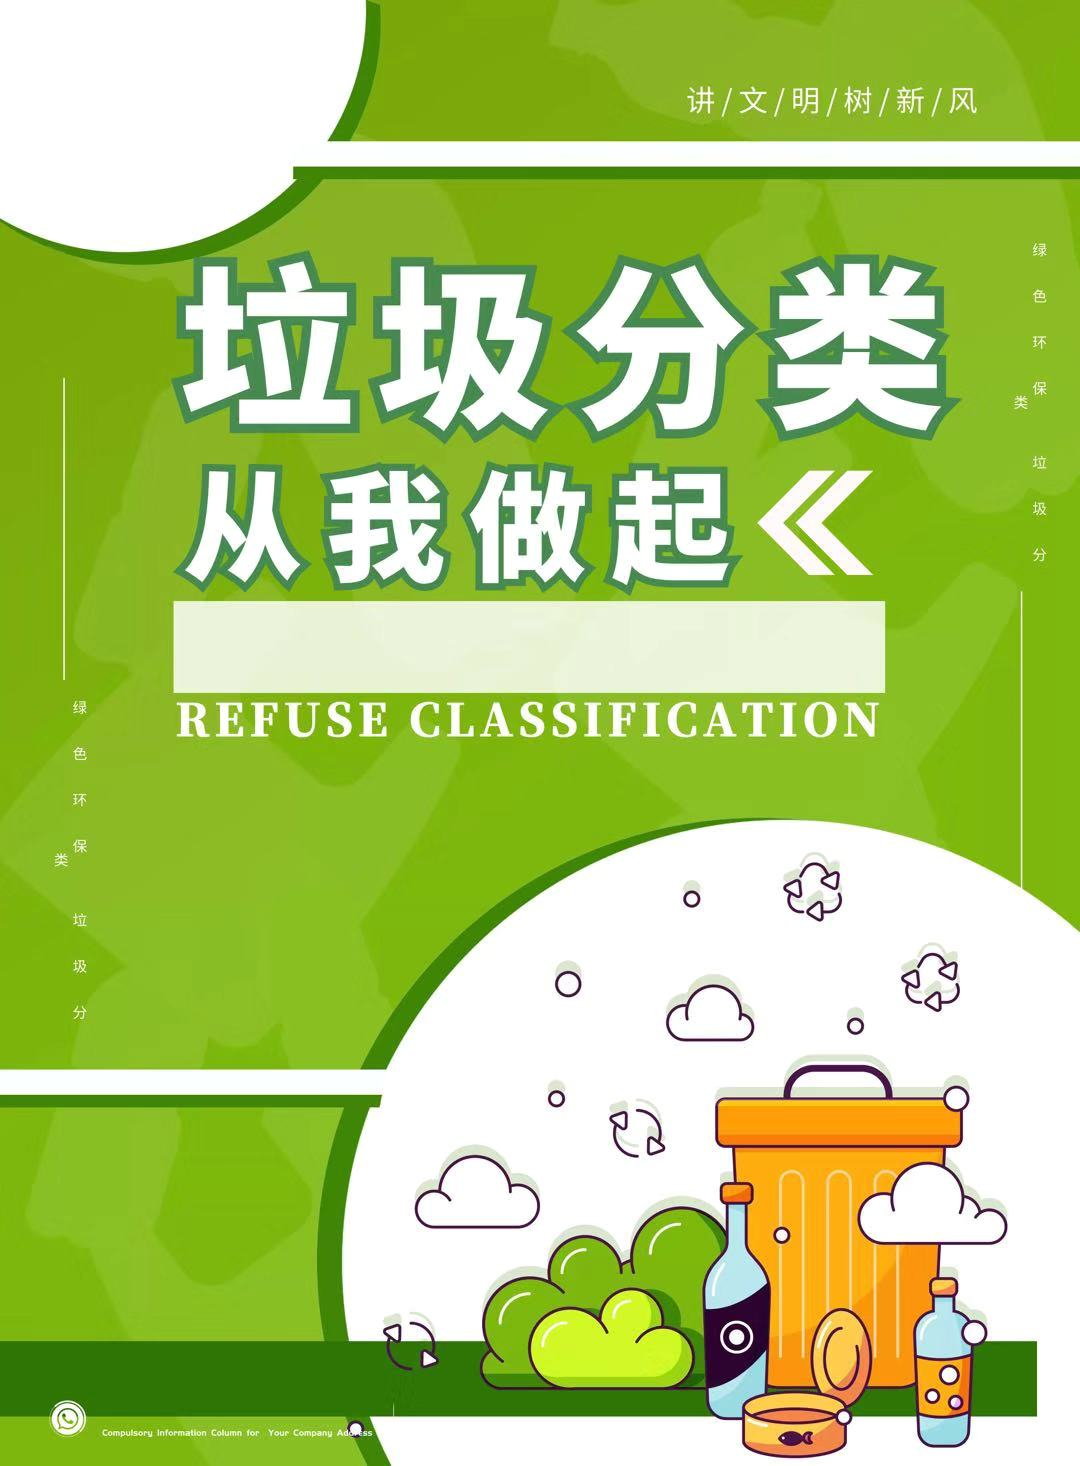
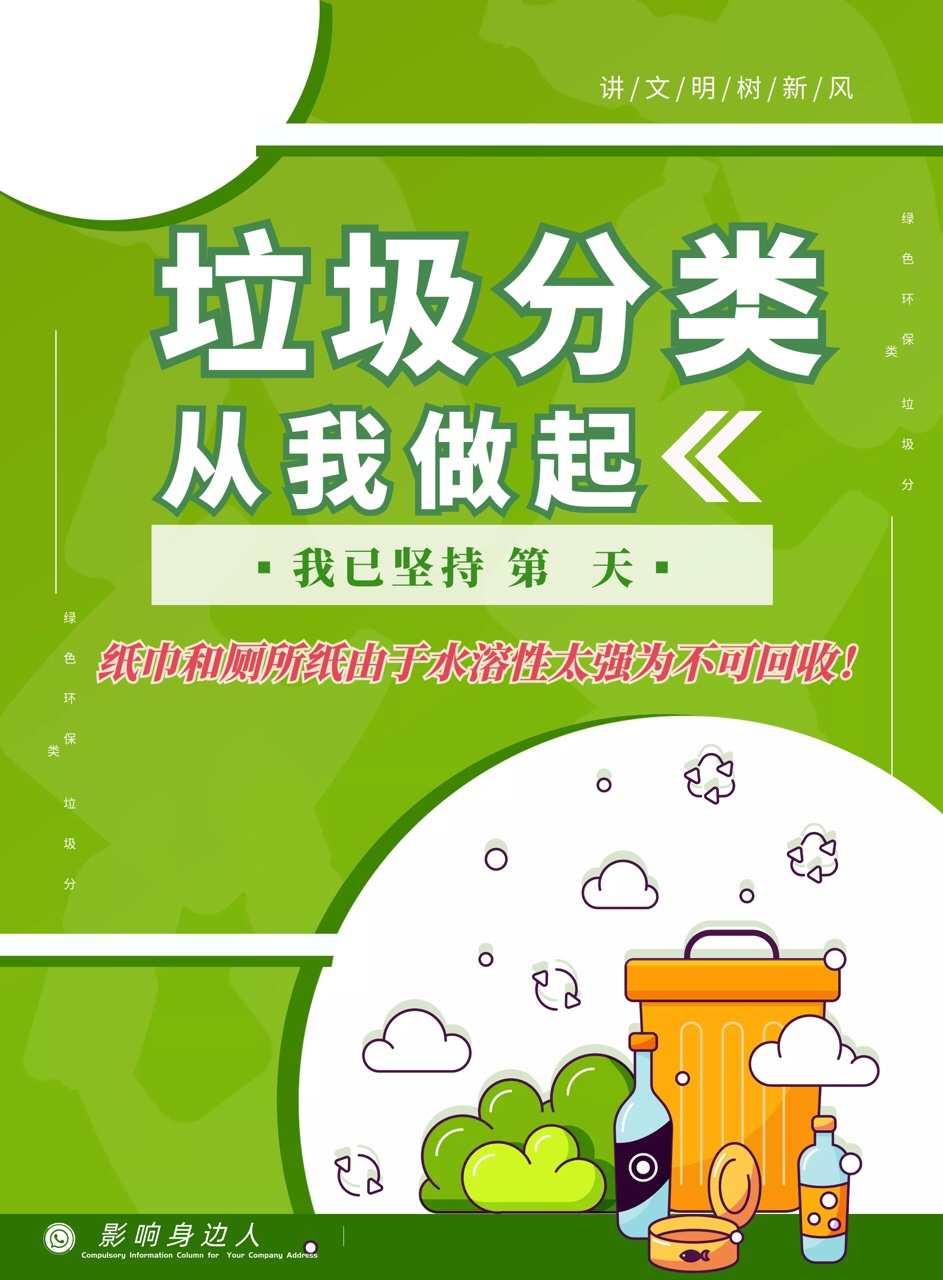
update

diff --git a/card/garbage_sort_mini-master/miniprogram/utils/rank.js b/card/garbage_sort_mini-master/miniprogram/utils/rank.js
@@ -1,0 +1,87 @@
+var db = wx.cloud.database();
+const app = getApp()
+
+function formatDate(time) {
+  var date = new Date(time);
+  var year = date.getFullYear(),
+    month = date.getMonth() + 1,//月份是从0开始的
+    day = date.getDate(),
+    hour = date.getHours(),
+    min = date.getMinutes(),
+    sec = date.getSeconds();
+  var newTime = year + '-' +
+    (month < 10 ? '0' + month : month) + '-' +
+    (day < 10 ? '0' + day : day) + ' ' +
+    (hour < 10 ? '0' + hour : hour) + ':' +
+    (min < 10 ? '0' + min : min) + ':' +
+    (sec < 10 ? '0' + sec : sec);
+  return newTime;
+}
+
+
+class Rank {
+  static update() {
+    var d = new Date().getTime();
+    var now = new Date();
+    var day = now.getMonth().toString()+now.getDay().toString();
+    const _ = db.command;
+    db.collection('rank').where({
+      _openid: app.globalData.openid
+    }).get({
+      success: res => {
+        if (res.data.length == 0) {
+          app.globalData.create_time = d;
+          app.globalData.create_time_str = formatDate(d);
+          app.globalData.punch_days = [day];
+          console.log("add rank: ", app.globalData);
+          db.collection('rank').add({
+            data: app.globalData
+          }).then(res => {
+            console.log(res)
+          }).catch(console.error)         
+        } else {
+          app.globalData.update_time = formatDate(d);
+          app.globalData.update_time_str = formatDate(d);
+          console.log("update rank: ", app.globalData);
+          delete app.globalData._id
+          delete app.globalData._openid
+          db.collection('rank').doc(res.data[0]._id).update({
+            data: {
+              punch_days: _.addToSet(day)
+            },
+            success: function(res) {
+              console.log("rank update ok:", res)
+            },
+            fail: function(res) {
+              console.log("rank update fail:", res)
+            },
+          });   
+        }
+      },
+      fail: err => {
+        console.log(err);
+      }
+    })
+  };
+
+  static get(openid, cb, err_cb) {
+    if (!openid) {
+      console.log("invalid openid: ", openid);
+      err_cb();
+      return;
+    }
+    db.collection('rank').where({
+      _openid: openid
+    }).get({
+      success: res => {
+        console.log("get rank: ", openid, res.data);
+        cb(res.data.length);
+      },
+      fail: err => {
+        console.log(err);
+        err_cb();
+      }
+    })
+  };
+}
+module.exports = Rank;

diff --git a/miniprogram/pages/genCard/genCard.js b/miniprogram/pages/genCard/genCard.js
@@ -1,7 +1,7 @@
 // pages/genCard/genCard.js
 const app = getApp()
 
-const bgUrl = "https://alcdn.yojiang.cn/upload/circle/10966/circle/327679/20200109/5155.jpeg";//"https://alcdn.yojiang.cn/upload/circle/8088/circle/327679/20191201/9834.jpeg";
+const bgUrl = "https://alcdn.yojiang.cn/upload/circle/10890/circle/327679/20200110/6547.jpeg";//"https://alcdn.yojiang.cn/upload/circle/8088/circle/327679/20191201/9834.jpeg";
 
 // 预设一个default对象
 var defaultOptions = {
@@ -46,7 +46,8 @@ Page({
     showLoading: true,
     followText: [
       "KavinLin",
-      "搜索“搞嘢吧”"
+      "8",
+      "要注意纸巾和厕所纸由于水溶性太强不可回收"
     ],
     testurl: "",
   },
@@ -266,7 +267,7 @@ Page({
         ctx.drawImage(defaultOptions.portraitPath, x, y, d, d);
         ctx.restore();
 
-        ctx.drawImage(defaultOptions.qrcode, defaultOptions.bg_width - 705, defaultOptions.bg_height-208, 135, 135)
+        ctx.drawImage(defaultOptions.qrcode, defaultOptions.bg_width - 705, defaultOptions.bg_height-218, 135, 135)
         
         //画头像
         ctx.save(); // 保存当前ctx的状态
@@ -289,8 +290,19 @@ Page({
         ctx.setFontSize(36)
         ctx.setFillStyle('#000000')
         ctx.setTextAlign('center')
+        ctx.font = "italic 36px sans-serif";
         ctx.fillText(that.data.followText[0], 230, 60)
-        //ctx.fillText(that.data.followText[1], defaultOptions.bg_width * 0.090, defaultOptions.bg_height * 0.094 + 40)
+        ctx.setFontSize(36)
+        ctx.setFillStyle('#404040')
+        ctx.setTextAlign('center')
+        ctx.font = "italic 36px sans-serif";
+        ctx.fillText(8, 450, 465)
+        /*ctx.restore();
+        ctx.setFontSize(36)
+        ctx.setFillStyle('#404040')
+        ctx.setTextAlign('left')
+        ctx.font = "CSS font DOMString"
+        ctx.fillText("注意：纸巾和厕所纸由于水溶性太强不可回收", 30, 530)*/
         //canvasTextAutoLine("如果网络图片地址是异步请求过来的数据，需要先使用wx.downloadFile()的方式，把图片下载到本地，再把临时的本地路径使用drawImage()绘制", ctx, defaultOptions.bg_width * 1/2, defaultOptions.bg_height * 0.094 + 120, 40, that.data.x);
         
         console.log("before draw...", defaultOptions);

diff --git a/card/garbage_sort_mini-master/miniprogram/pages/genCard/genCard.js b/card/garbage_sort_mini-master/miniprogram/pages/genCard/genCard.js
@@ -1,7 +1,7 @@
 // pages/genCard/genCard.js
 const app = getApp()
 
-const bgUrl = "https://alcdn.yojiang.cn/upload/circle/10890/circle/327679/20200110/6547.jpeg";//"https://alcdn.yojiang.cn/upload/circle/8088/circle/327679/20191201/9834.jpeg";
+const bgUrl = "https://alcdn.yojiang.cn/upload/circle/23875/circle/327679/20200118/3970.jpeg";//"https://alcdn.yojiang.cn/upload/circle/8088/circle/327679/20191201/9834.jpeg";
 
 // 预设一个default对象
 var defaultOptions = {
@@ -293,7 +293,7 @@ Page({
         ctx.setFillStyle('#404040')
         ctx.setTextAlign('center')
         //ctx.font = "italic 36px sans-serif";
-        ctx.fillText(8, 450, 465)
+        ctx.fillText(8, 450, 450)
         /*ctx.restore();
         ctx.setFontSize(36)
         ctx.setFillStyle('#404040')
